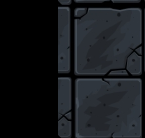
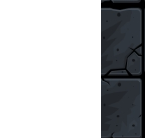
Updated assets and added health bar.

diff --git a/source/map.py b/source/map.py
@@ -48,11 +48,14 @@ class MapTiles:
     FRONT_RIGHT_WALL = Tile(TILE_ICONS['FRONT_RIGHT_WALL'], False, False, None)
     FRONT_LEFT_WALL = Tile(TILE_ICONS['FRONT_LEFT_WALL'], False, False, None)
     RIGHT_WALL = Tile(TILE_ICONS['RIGHT_WALL'], False, False, None)
+    BACK_ROOFTOP = Tile(TILE_ICONS['BACK_ROOFTOP'], False, False, None)
     LEFT_WALL = Tile(TILE_ICONS['LEFT_WALL'], False, False, None)
     BACK_WALL = Tile(TILE_ICONS['BACK_WALL'], False, False, None)
+    ROOFTOP = Tile(TILE_ICONS['ROOFTOP'], False, False, None)
     WALL = Tile(TILE_ICONS['WALL'], False, False, None)
     GRASS = Tile(TILE_ICONS['GRASS'], True, False, None)
     TILES = Tile(TILE_ICONS['TILES'], True, False, None)
+    PATH_H = Tile(TILE_ICONS['PATH_H'], True, False, None)
 
 
 class Map:
@@ -160,8 +163,29 @@ class Map:
                             case '%':
                                 tile = (MapTiles.GRASS, MapTiles.RIGHT_WALL)
                             
+                            case '&':
+                                tile = (MapTiles.GRASS, MapTiles.LEFT_WALL)
+                            
+                            case '$':
+                                tile = (MapTiles.BACK_WALL, MapTiles.LEFT_WALL)
+                            
+                            case ')':
+                                tile = (MapTiles.GRASS, MapTiles.FRONT_RIGHT_WALL)
+                            
+                            case '(':
+                                tile = (MapTiles.GRASS, MapTiles.FRONT_LEFT_WALL)
+                            
                             case '^':
                                 tile = MapTiles.GRASS
+                            
+                            case 'r':
+                                tile = MapTiles.ROOFTOP
+                            
+                            case 'p':
+                                tile = MapTiles.PATH_H
+                            
+                            case 'R':
+                                tile = MapTiles.BACK_ROOFTOP
                             
                             case '+':
                                 for _data in self.containers:
@@ -192,6 +216,25 @@ class Map:
                                 finally:
                                     door = Door(self.game, self.filename, (x, y), destination, spawn, key, lock_state)
                                     tile = Tile(image, False, True, door)
+                            
+                            case '@':
+                                key = None
+                                for _data in self.doors:
+                                    if _data['x'] == x and _data['y'] == y:
+                                        lock_state = True if _data['state'] == 'locked' else False
+                                        key = _data['key'] if _data['key'] != 'None' else None
+                                        destination = _data['destination']
+                                        spawn = _data['spawn']['x'], _data['spawn']['y']
+                                image = TILE_ICONS['LEFT_DOOR']
+                                try:
+                                    _check = line.strip()[y][x-1]
+                                    if _check != '?':
+                                        image = TILE_ICONS['RIGHT_DOOR']
+                                except IndexError:
+                                    ...
+                                finally:
+                                    door = Door(self.game, self.filename, (x, y), destination, spawn, key, lock_state)
+                                    tile = (MapTiles.GRASS, Tile(image, False, True, door))
                         row.append(tile)
                     self.tiles.append(row)
                 self.current_map = map_file
@@ -221,9 +264,13 @@ class Map:
             for x, tile in enumerate(row):
                 if not isinstance(tile, Tile):
                     if isinstance(tile, tuple):
-                        _rect = pygame.Rect(x * SCALE + 100, y * SCALE + 100, scale**4, scale**4)
-                        self.game.screen.blit(tile[0].texture, _rect)
-                        self.game.screen.blit(tile[1].texture, _rect)
+                        _rect = pygame.Rect(x * SCALE, y * SCALE + 100, scale**4, scale**4)
+                        try:
+                            self.game.screen.blit(tile[0].texture, _rect)
+                            self.game.screen.blit(tile[1].texture, _rect)
+                        except AttributeError:
+                            self.game.screen.blit(tile[1].texture, _rect)
+                            continue
                     continue
-                rect = pygame.Rect(x * SCALE + 100, y * SCALE  + 100, scale**4, scale**4)
+                rect = pygame.Rect(x * SCALE, y * SCALE  + 100, scale**4, scale**4)
                 self.game.screen.blit(tile.texture, rect)

diff --git a/source/player.py b/source/player.py
@@ -1,9 +1,10 @@
 from source.const import SCALE, PLAYER_ICONS
+from source.const.icons import TOPBAR_ICONS
 from source.utils.directions import *
 from source.map import Tile
 from source.items import Item
 from source.items import InteractionObject
-from source.const import GameState, EntityState
+from source.const import GameState, EntityState, rgb
 from source.entity import Entity
 from source.container import Container
 import pygame
@@ -40,13 +41,33 @@ class Player(Entity):
         self.state = EntityState.DEAD
         self.game.state = GameState.GAME_OVER
     
+    def render_topbar(self) -> None:
+        width, height = pygame.display.get_desktop_sizes()[0]
+        bar = pygame.Surface((width, 80))
+        bar.fill(rgb.GRAY)
+        self.game.screen.blit(bar, (0, 0))
+        
+        health_display = pygame.Surface((350, 60))
+        health_display.fill(rgb.GRAY)
+        hp = self.game.fonts['HEALTH'].render(f"HP: {self.health} / {self.max_health}", 0, rgb.BLACK)
+        health_display.blit(hp, (170, 30))
+        
+        heart = pygame.transform.scale(pygame.image.load(TOPBAR_ICONS['FULL_HEART']), (30, 30))
+        
+        match self.health:
+            case 100:
+                for i in range(5):
+                    health_display.blit(heart, (30*i+10, 20))
+        self.game.screen.blit(health_display, (10, 10))
+    
     def render(self) -> None:
         """Render in the players icon."""
         scale = self.game.graphics['SCALE']
+        self.render_topbar()
         
         # Create a surface for displaying icon.
         rect = pygame.rect.Rect(
-            self.position[0] * scale - (scale * 2) + 100,
+            self.position[0] * scale - (scale * 2),
             self.position[1] * scale - (scale * 3) + 100,
             scale ** 4, scale ** 4)
         
@@ -84,3 +105,10 @@ class Player(Entity):
         if isinstance(tile, Tile):
             if tile.object is not None and tile.can_interact:
                 return tile.object.interact()
+        elif isinstance(tile, tuple):
+            if isinstance(tile[0], Tile):
+                if tile[0].object is not None and tile[0].can_interact:
+                    return tile[0].object.interact()
+            elif isinstance(tile[1], Tile):
+                if tile[1].object is not None and tile[1].can_interact:
+                    return tile[1].object.interact()

diff --git a/source/const/icons.py b/source/const/icons.py
@@ -3,10 +3,14 @@ from source.const import SCALE
 import pygame
 
 PLAYER_ICONS = {
-    Directions.SOUTH: 'resources/img/player.png',
-    Directions.NORTH: 'resources/img/player_UP.png',
-    Directions.WEST: 'resources/img/player_L.png',
-    Directions.EAST: 'resources/img/player_R.png'}
+    Directions.SOUTH: 'resources/img/player_.png',
+    Directions.NORTH: 'resources/img/player_UP_.png',
+    Directions.WEST: 'resources/img/player_L_.png',
+    Directions.EAST: 'resources/img/player_R_.png'}
+
+TOPBAR_ICONS = {
+    'FULL_HEART': 'resources/img/full_heart.png'
+}
 
 TILE_ICONS = {
     'WALL': pygame.transform.scale(
@@ -44,5 +48,14 @@ TILE_ICONS = {
         (SCALE, SCALE)),
     'CRATE': pygame.transform.scale(
         pygame.image.load('resources/img/tiles/crate.png'),
+        (SCALE, SCALE)),
+    'ROOFTOP': pygame.transform.scale(
+        pygame.image.load('resources/img/tiles/rooftop.png'),
+        (SCALE, SCALE)),
+    'BACK_ROOFTOP': pygame.transform.scale(
+        pygame.image.load('resources/img/tiles/back_rooftop.png'),
+        (SCALE, SCALE)),
+    'PATH_H': pygame.transform.scale(
+        pygame.image.load('resources/img/tiles/dirt_path.png'),
         (SCALE, SCALE)),
 }

diff --git a/source/game.py b/source/game.py
@@ -40,8 +40,12 @@ class Game:
     def __init__(self) -> None:
         """Initializes the `Game` class."""
         pygame.init()
-        self.fonts = {'MENU': pygame.font.Font(None, 24), 'MAIN_MENU': pygame.font.Font(None, 50),
-                      'MAIN': pygame.font.SysFont('Jetbrains Mono', 50, True)}
+        self.fonts = {
+            'MENU': pygame.font.Font(None, 24),
+            'MAIN_MENU': pygame.font.Font(None, 50),
+            'MAIN': pygame.font.SysFont('Jetbrains Mono', 50, True),
+            'HEALTH': pygame.font.Font(None, 30),
+        }
         self.settings = Settings(self)
         self.graphics = self.settings.get_graphics()
         self.geometry: tuple[int, int] = (

diff --git a/main.py b/main.py
@@ -21,7 +21,9 @@ def main():
         game.update()
         
         if game.state == GameState.RUNNING:
-            pygame.display.set_caption(f"{game.clock.get_fps()} FPS")
+            #pygame.display.set_caption(f"{game.clock.get_fps()} FPS")
+            pygame.display.set_caption(f"{game.player.position[0] // 4}, {game.player.position[1] // 4}")
+            
             if game.held_keys['w']:
                 game.player.face(Directions.NORTH)
                 game.player.move(north(game.player.position))
